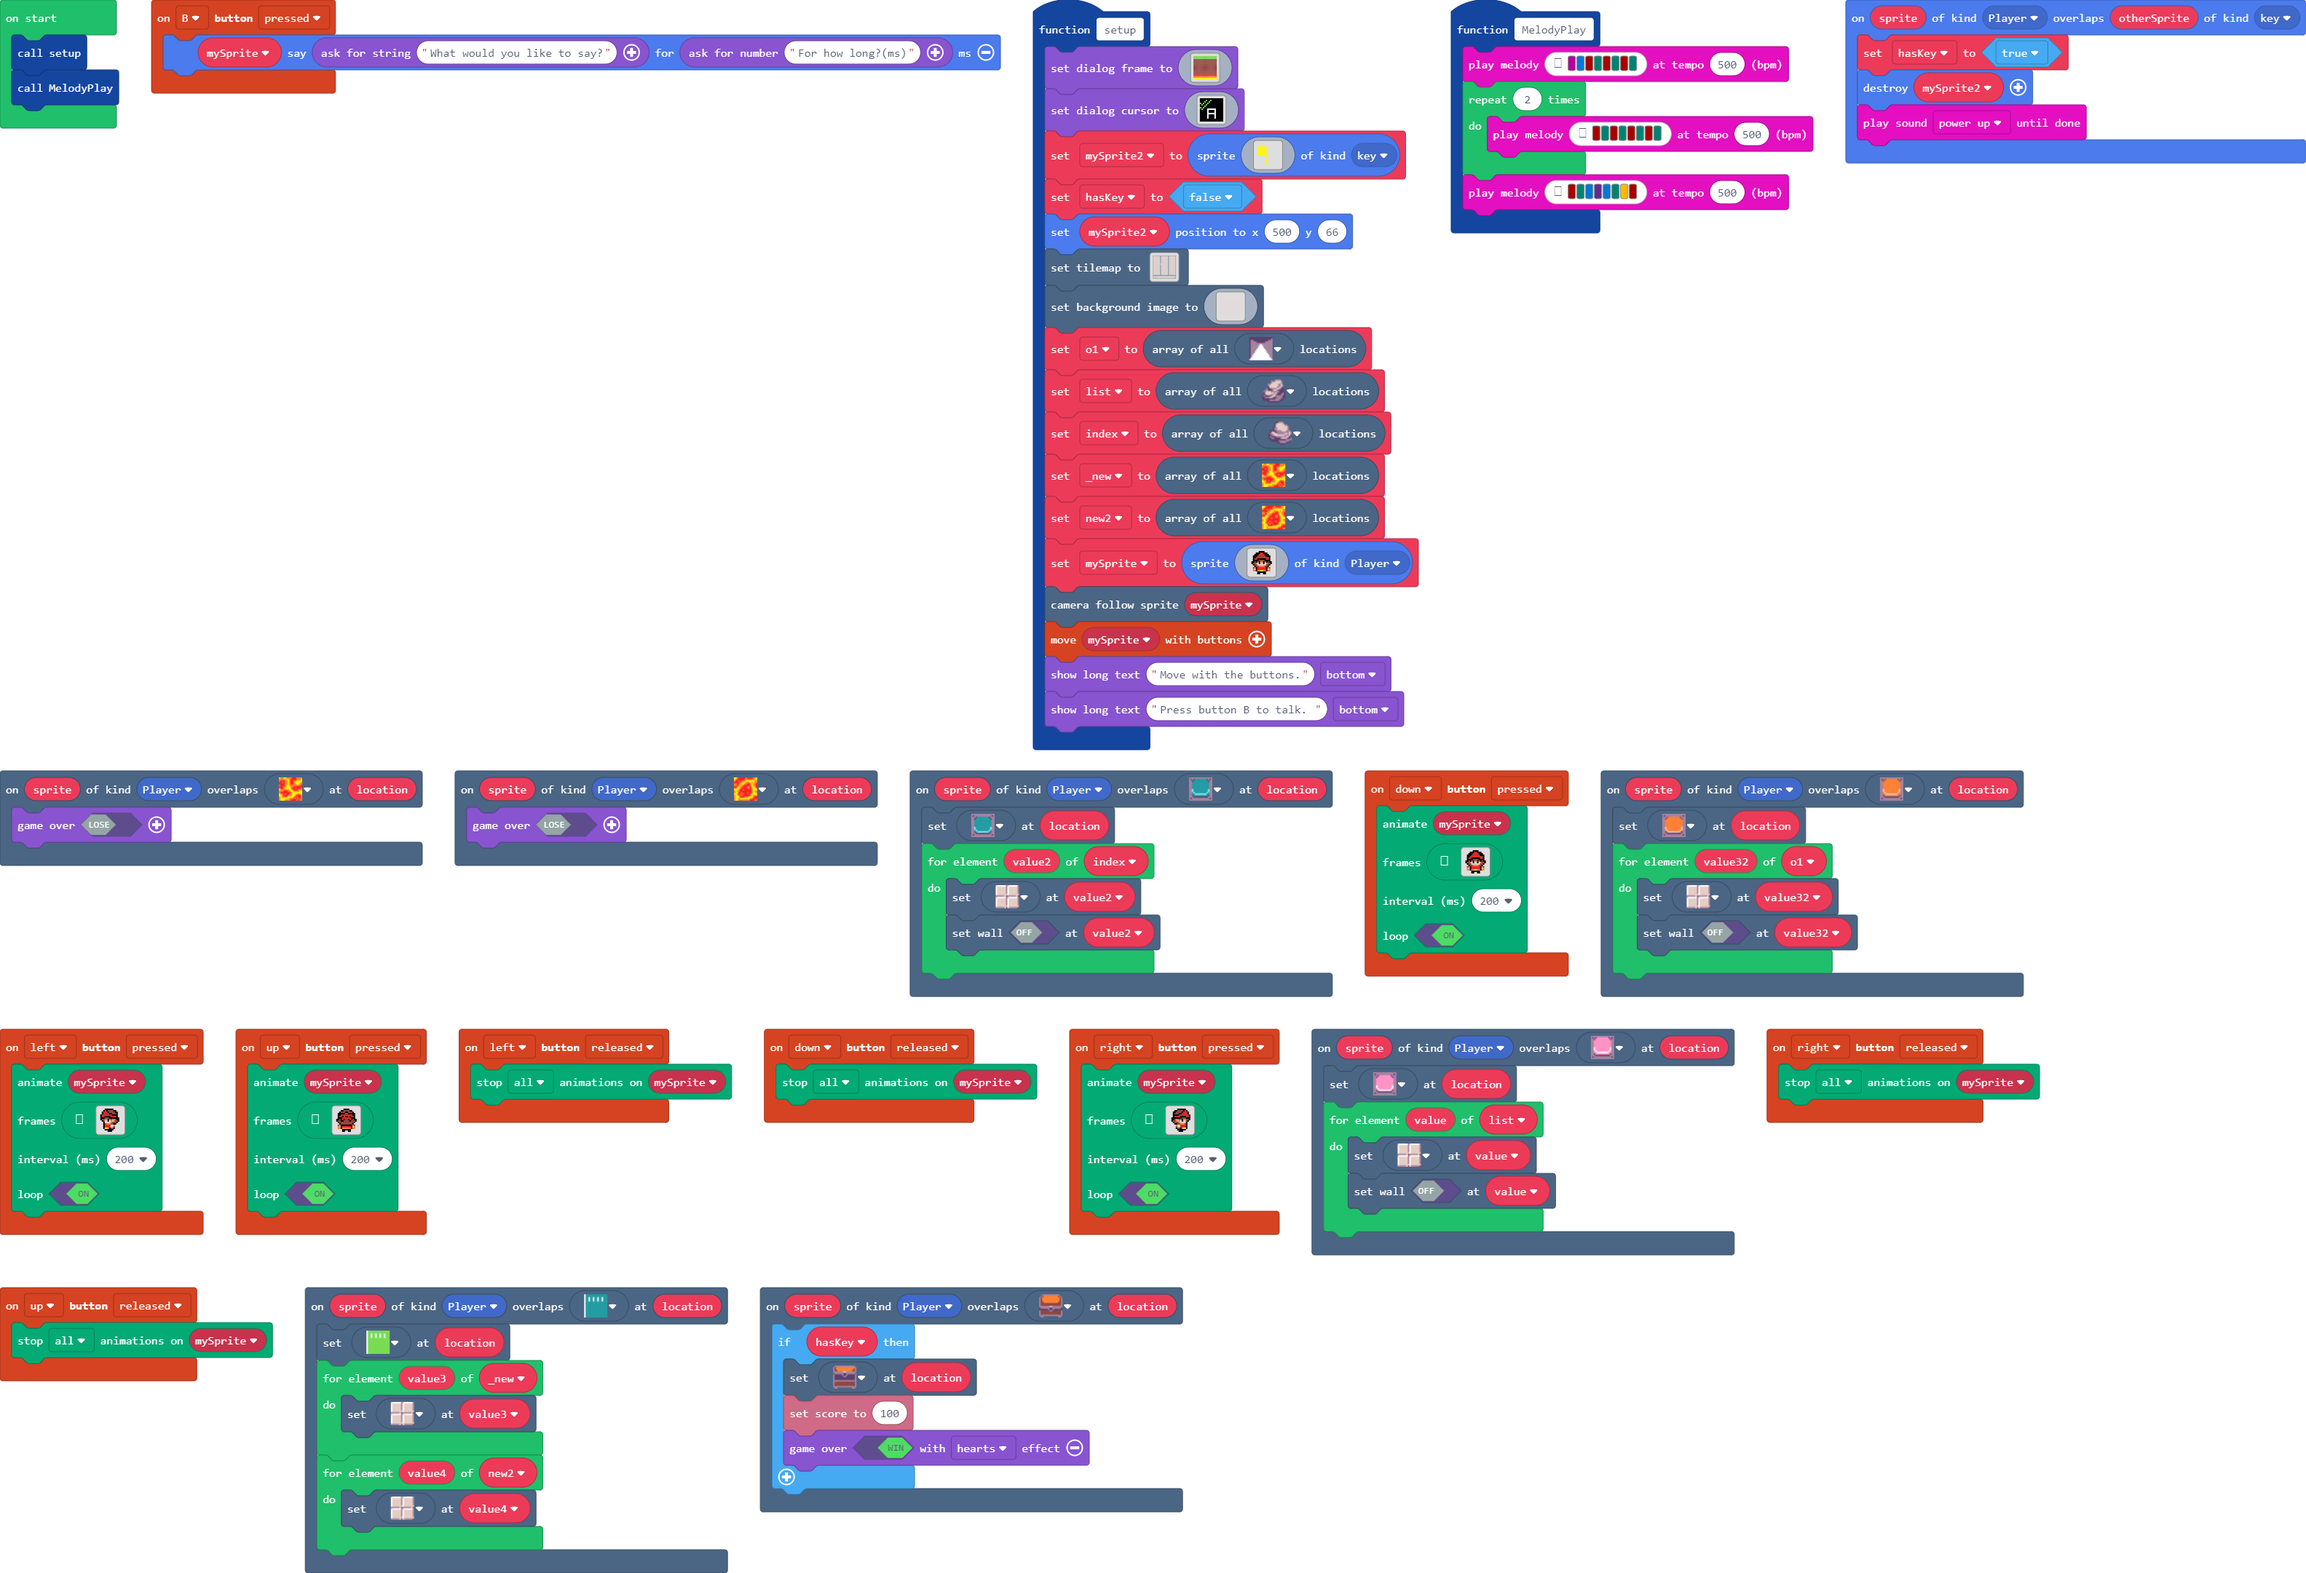
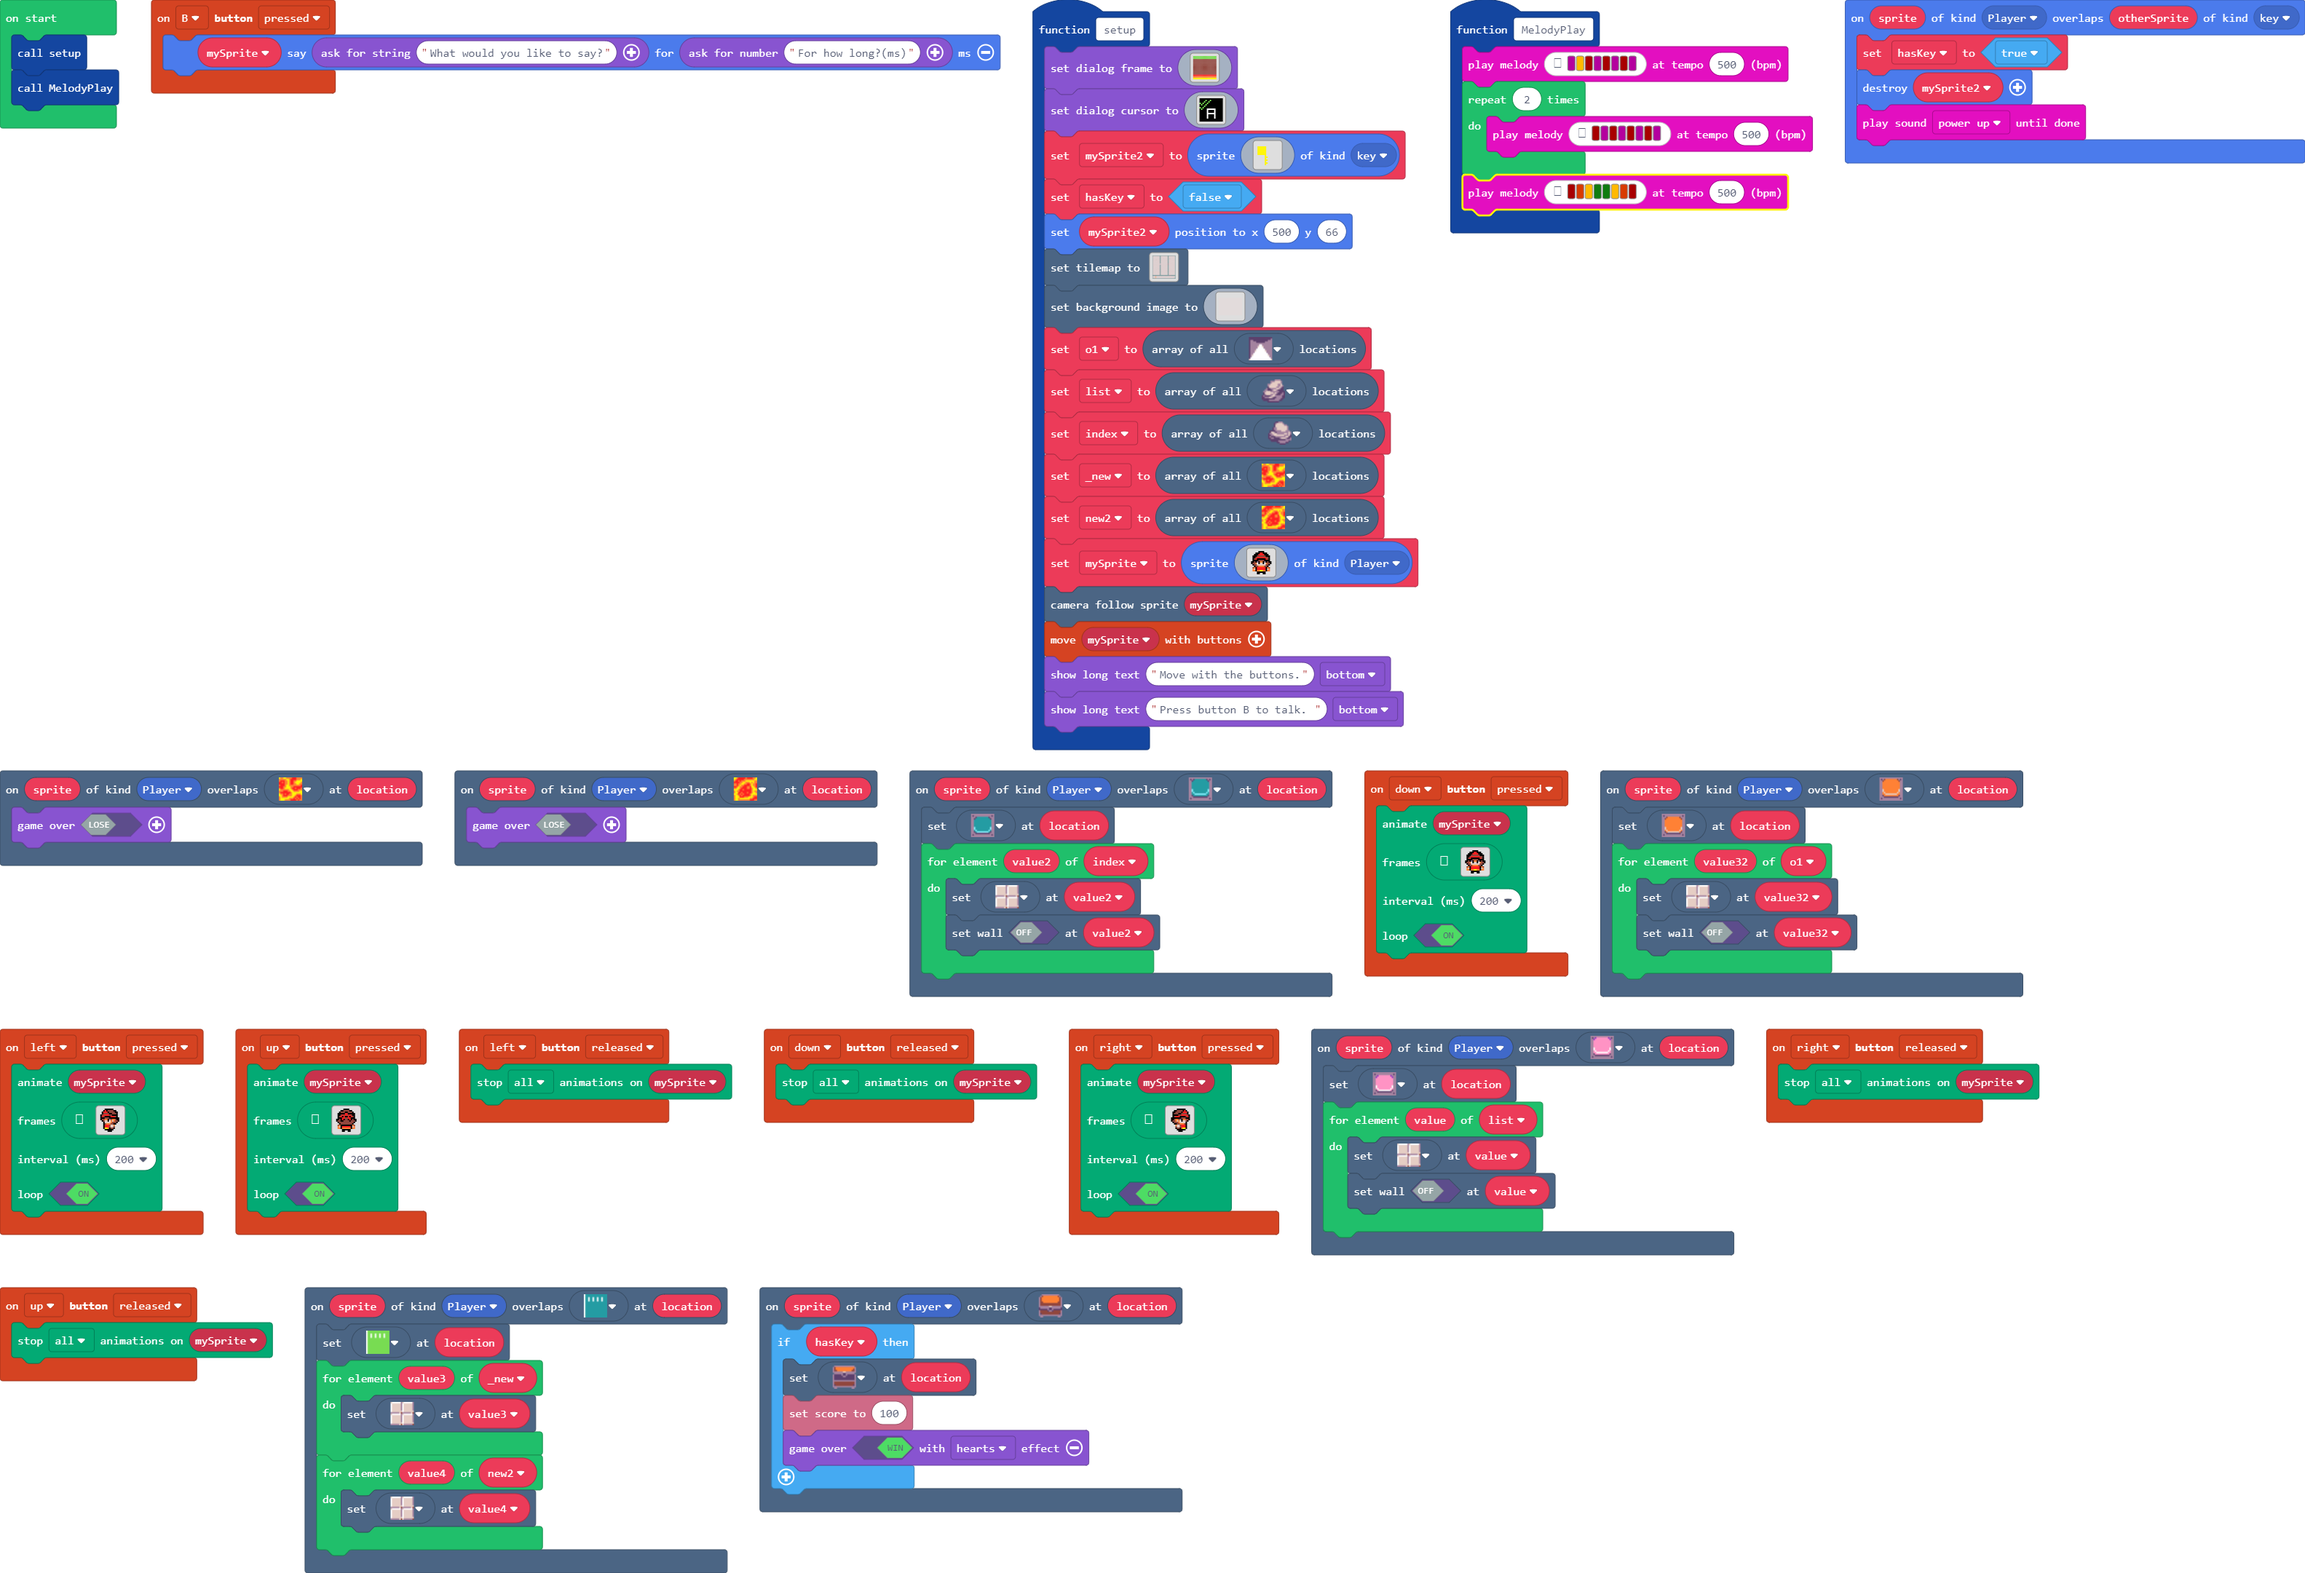
Update main.blocks, main.ts

Changed region(s): [[0.681, 0.031, 0.7119, 0.155], [0.8048, 0.031, 0.8358, 0.062], [0.7429, 0.093, 0.7738, 0.124]]

diff --git a/main.ts b/main.ts
@@ -582,11 +582,11 @@ scene.onOverlapTile(SpriteKind.Player, sprites.builtin.field1, function (sprite,
     }
 })
 function MelodyPlay () {
-    music.playMelody("C E C5 F C5 F C5 F ", 500)
+    music.playMelody("C A C5 C C5 C C5 C ", 500)
     for (let index2 = 0; index2 < 2; index2++) {
-        music.playMelody("C5 F C5 F C5 F C5 F ", 500)
+        music.playMelody("C5 C C5 C C5 C C5 C ", 500)
     }
-    music.playMelody("C5 F E D E F A C5 ", 500)
+    music.playMelody("C5 B A G G A B C5 ", 500)
 }
 scene.onOverlapTile(SpriteKind.Player, sprites.dungeon.chestClosed, function (sprite, location) {
     if (hasKey) {
